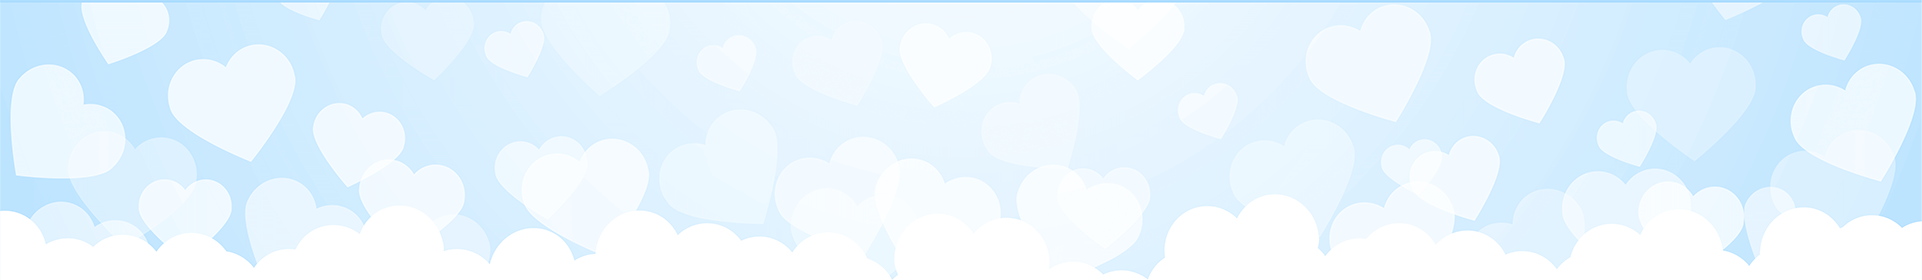
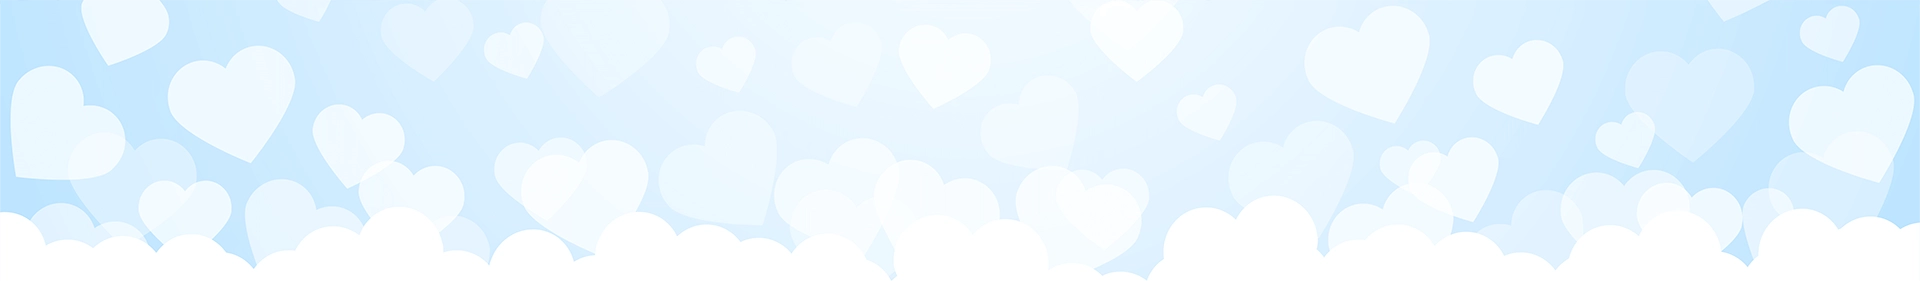
updated border of the title section

Changed region(s): [[0.0, 0.0, 1.0, 0.0286]]

diff --git a/src/app/(recipients)/[path_url]/titleSection/TitleSectionSplitB.js b/src/app/(recipients)/[path_url]/titleSection/TitleSectionSplitB.js
@@ -14,7 +14,7 @@ const TitleSectionSplitB = ({
   return (
     <div
       className={
-        'flex pt-10 pb-[33px] md:pt-[78px] md:pb-[92px] w-full relative'
+        'flex pt-10 pb-[33px] md:pt-[75px] md:pb-[92px] w-full relative border-t-[3px] border-[#AFDFFF]'
       }
     >
       <div
@@ -50,7 +50,7 @@ const TitleSectionSplitB = ({
         quality={100}
         sizes="(min-width: 767px) 100vw, 100vw"
         loading="eager"
-        className="object-cover"
+        className="object-cover object-bottom"
       />
     </div>
   )

diff --git a/src/app/components/ThisWebsiteOnly/TitleSectionComponent.js b/src/app/components/ThisWebsiteOnly/TitleSectionComponent.js
@@ -7,7 +7,7 @@ const TitleSectionComponent = ({ children, className }) => {
   return (
     <div
       className={twMerge(
-        'relative py-3 md:py-[50px] border-t-2 border-[#AFDFFF]',
+        'relative py-3 md:pb-[50px] md:pt-[49px] border-t-[3px] border-[#AFDFFF]',
         className
       )}
     >

diff --git a/src/app/_homepage/TitleSection/TitleSection.js b/src/app/_homepage/TitleSection/TitleSection.js
@@ -9,7 +9,7 @@ const TitleSection = () => {
   return (
     <div
       className={
-        'relative py-6 md:pt-[54px] md:pb-10 border-t-2 border-[#AFDFFF]'
+        'relative py-6 md:pt-[53px] md:pb-10 border-t-[3px] border-[#AFDFFF]'
       }
     >
       <div
